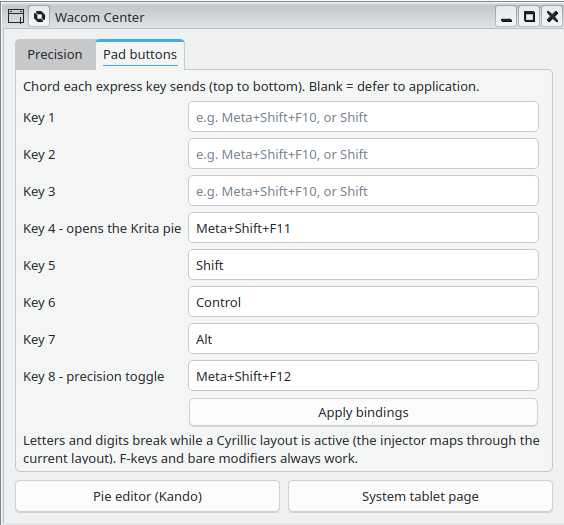
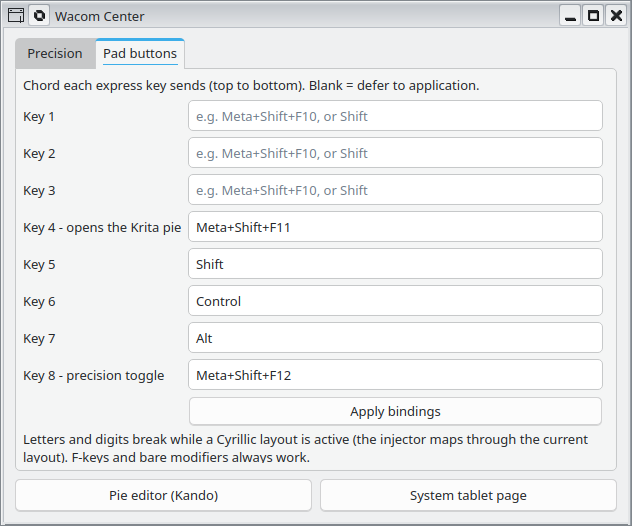
Ring: settings, no staircase after a swipe; tuned defaults; fresh Wacom Center pictures
A burst of ring ticks no longer trails behind the finger: the toggle
script reads the conf after taking its lock, so a queued tick applies the
newest size, and a resize whose width is already on screen does nothing,
so the rest of the queue drains in milliseconds. The pen's KWin sysname is
cached in the runtime dir and confirmed with one D-Bus call instead of a
walk over every device on each run.

The ring's step is the conf key RING_STEP (percentage points of screen
width per tick) and the tick angle is the ring binding's threshold, which
KWin compares with the degrees travelled times 120 (the ring reports
5-degree steps, so anything up to 600 fires on every step). Wacom Center
shows both as fields and rewrites the binding at once, plus a checkbox that
swaps the two chords. KNOWLEDGE.md corrects the old note that called 360
"15 degrees"; install.sh binds 600.

Defaults are now the values that felt right after a day of use: area 36 %
of the screen width, dim 10 %, hold 0.15 s, long press 0.7 s, half a point
per ring tick. The explanatory paragraph at the bottom of the Precision
tab is gone (tooltips carry what mattered); `wacom_center.py pad` opens on
the Pad buttons tab. The README gets a table of what the precision key
does in each state, the drag and the long press in the feature list, and
new screenshots of both Wacom Center tabs; install.sh's manual step D says
the same in one sentence.

Changed region(s): [[0.0, 0.0, 1.0, 1.0]]

diff --git a/wacom_center.py b/wacom_center.py
@@ -63,7 +63,7 @@ def detect_devices():
 
 # ── chunk: read_conf
 def read_conf():
-    values = {"SCALE": 0.7071, "DIM": 0.35, "HOLD": 0.6, "LONG": 1.0, "RING_STEP": 2.0}
+    values = {"SCALE": 0.36, "DIM": 0.10, "HOLD": 0.15, "LONG": 0.7, "RING_STEP": 0.5}
     try:
         for line in CONF.read_text().splitlines():
             key, _, val = line.partition("=")
@@ -181,6 +181,7 @@ class PrecisionTab(QWidget):
         self.ring_degrees.setSuffix("° of ring travel")
         self.ring_degrees.setKeyboardTracking(False)
         self.ring_degrees.setValue(max(1, round(degrees)))
+        self.ring_degrees.setToolTip("The ring reports 5° steps, so 5 is the finest tick; 1 to 5 behave the same.")
         self.ring_swap = QCheckBox("Swap the ring direction")
         ring_row = QHBoxLayout()
         ring_row.addWidget(QLabel("Ring: each tick changes the size by"))
@@ -193,14 +194,9 @@ class PrecisionTab(QWidget):
         tick_row.addStretch()
         toggle = QPushButton("Toggle precision now")
         toggle.clicked.connect(lambda: subprocess.Popen([str(TOGGLE)]))
-        hint = QLabel("Wacom-style placement: the cursor stays put on toggle, "
-                      "the area keeps the tablet's own proportions (no stretch "
-                      "inside it) and never leaves the screen. Size and dim apply "
-                      "on the next toggle or ring tick, the two times within two "
-                      "seconds, the ring step at the next tick; the tick angle and "
-                      "the direction go into the ring binding at once. The ring "
-                      "reports 5° steps, so 5 is the finest tick.")
-        hint.setWordWrap(True)
+        toggle.setToolTip("The pad button bound to Meta+Shift+F12 does the same. Size and dim apply "
+                          "on the next toggle or ring tick, the times within two seconds, the ring "
+                          "step at the next tick.")
 
         for w in (self.size_label, self.size, self.dim_label, self.dim):
             layout.addWidget(w)
@@ -208,8 +204,7 @@ class PrecisionTab(QWidget):
         layout.addLayout(long_row)
         layout.addLayout(ring_row)
         layout.addLayout(tick_row)
-        for w in (toggle, hint):
-            layout.addWidget(w)
+        layout.addWidget(toggle)
         layout.addStretch()
         for slider in (self.size, self.dim):
             slider.valueChanged.connect(self.update_labels)
@@ -313,6 +308,8 @@ def main():
     tabs = QTabWidget()
     tabs.addTab(PrecisionTab(aspect, pad), "Precision")
     tabs.addTab(PadTab(pad), "Pad buttons")
+    if "pad" in sys.argv[1:]:                  # `wacom_center.py pad` opens on the Pad buttons tab (the README pictures)
+        tabs.setCurrentIndex(1)
     links = QHBoxLayout()
     for label, cmd in (("Pie editor (Kando)", ["kando", "--settings"]),
                        ("System tablet page", ["systemsettings", "kcm_tablet"])):

diff --git a/tablet-hover.py b/tablet-hover.py
@@ -12,8 +12,7 @@
 # activated).
 #
 # With precision mode already ON the same key RELOCATES it. Rest the finger
-# for HOLD seconds (conf key, default 0.6, the Wacom Center field - long
-# enough that a normal press still switches the mode off) and the REAL
+# for HOLD seconds (conf key, default 0.15, the Wacom Center field) and the REAL
 # overlay, the precision UI itself and not the ghost, starts following the
 # pen with the same placement math and the ghost's flowing border (the
 # pipe lines "waiting" / "solid") while the pen gets the base mapping back
@@ -28,7 +27,7 @@
 #
 # HOLD has no floor. At 0 every touch starts a drag at once and every press
 # is a move, so the way OUT is the LONG PRESS: keep the key pressed for LONG
-# seconds after a press that confirmed a drag (conf key, default 1.0, the
+# seconds after a press that confirmed a drag (conf key, default 0.7, the
 # second Wacom Center field; 0 switches the long press off) and precision
 # mode goes off. The area lands at the press first - KWin fires the toggle
 # on the key-down and nothing can hold that back - and the daemon runs the
@@ -79,8 +78,8 @@ FIFO = RD / "overlay.fifo"          # the live overlay's geometry pipe (tablet-o
 MARK = RD / "relocate"              # kept fresh while the overlay follows the pen: the toggle moves (< 3 s old) instead of switching off
 DIR = Path(__file__).resolve().parent
 SHOW_DELAY = 0.06                    # touch sense must hold this long before the ghost (debounce)
-HOLD_DEFAULT = 0.6                   # ...and this long before a relocation (precision on); conf key HOLD, Wacom Center field
-LONG_DEFAULT = 1.0                   # a press that confirmed a drag, kept down this long, switches precision mode off; conf key LONG, 0 = off
+HOLD_DEFAULT = 0.15                  # ...and this long before a relocation (precision on); conf key HOLD, Wacom Center field
+LONG_DEFAULT = 0.7                   # a press that confirmed a drag, kept down this long, switches precision mode off; conf key LONG, 0 = off
 RESCAN = 2.0                        # seconds between checks for new/lost nodes and conf edits
 TICK = 0.03                          # poll period while a rectangle follows the pen or a press is being judged
 LEARN_WINDOW = 2.0                   # a precision toggle this soon after a one-key press names the key

diff --git a/tests/test_hover.py b/tests/test_hover.py
@@ -23,7 +23,7 @@ for d in (RD / "tabprec", CONFD, FAKE):
 os.environ["XDG_RUNTIME_DIR"] = str(RD)
 os.environ["XDG_CONFIG_HOME"] = str(CONFD)
 CONF = CONFD / "tabprec.conf"
-CONF.write_text("SCALE=0.29\nDIM=0.10\nHOVER_MASK=0x80\n")
+CONF.write_text("SCALE=0.29\nDIM=0.10\nHOVER_MASK=0x80\nHOLD=0.6\nLONG=1.0\n")   # the rig's timings assume these, not the defaults
 
 spec = importlib.util.spec_from_file_location("hover", SRC)
 hover = importlib.util.module_from_spec(spec)
@@ -206,12 +206,12 @@ check("G conf edited mid-rest: the drag still starts", MARK.exists() and len(lin
 report(touch=0)
 time.sleep(0.25)
 check("G lift snaps home", lines[-2:] == [HOME, "solid"] and not MARK.exists())
-CONF.write_text("SCALE=0.29\nDIM=0.10\nHOVER_MASK=0x80\nHOLD=0.6\n")
+CONF.write_text("SCALE=0.29\nDIM=0.10\nHOVER_MASK=0x80\nHOLD=0.6\nLONG=1.0\n")
 time.sleep(2.6)
 
 # --- H: no floor on HOLD, and the LONG PRESS out of precision mode ---
 calls = lambda: ghost().count("CALL toggle")
-CONF.write_text("SCALE=0.29\nDIM=0.10\nHOVER_MASK=0x80\nHOLD=0\n")
+CONF.write_text("SCALE=0.29\nDIM=0.10\nHOVER_MASK=0x80\nHOLD=0\nLONG=1.0\n")
 time.sleep(2.6)
 n = len(lines)
 report(touch=0x80)
@@ -219,7 +219,7 @@ time.sleep(0.1)
 check("H HOLD=0: the drag starts at the first touch report", MARK.exists() and len(lines) == n + 2)
 report(touch=0)
 time.sleep(0.25)
-CONF.write_text("SCALE=0.29\nDIM=0.10\nHOVER_MASK=0x80\nHOLD=0.6\n")     # LONG absent: the 1.0 s default
+CONF.write_text("SCALE=0.29\nDIM=0.10\nHOVER_MASK=0x80\nHOLD=0.6\nLONG=1.0\n")
 time.sleep(2.6)
 report(touch=0x80)
 time.sleep(0.9)
@@ -261,7 +261,7 @@ check("H LONG=0: a press held 1.4 s after a drag does not exit", calls() == 1)
 report(touch=0)
 time.sleep(0.25)
 MARK.unlink(missing_ok=True)
-CONF.write_text("SCALE=0.29\nDIM=0.10\nHOVER_MASK=0x80\nHOLD=0.6\n")
+CONF.write_text("SCALE=0.29\nDIM=0.10\nHOVER_MASK=0x80\nHOLD=0.6\nLONG=1.0\n")
 time.sleep(2.6)
 
 # --- F: no live overlay reading the pipe -> the hold does nothing ---

diff --git a/tablet-size-preview.py b/tablet-size-preview.py
@@ -54,7 +54,7 @@ def tablet_aspect():
 # ── chunk: read_conf
 def read_conf():
     """(SCALE, DIM) from the conf, clamped the way the toggle clamps them."""
-    scale, dim = 0.7071, 0.35
+    scale, dim = 0.36, 0.10
     try:
         for line in CONF.read_text().splitlines():
             key, _, val = line.partition("=")

diff --git a/PROJECT_MAP.md b/PROJECT_MAP.md
@@ -41,11 +41,11 @@ Runtime files live in `$XDG_RUNTIME_DIR/tabprec/` (`$RD` below). The conf is
 | `$RD/lock` | every run of the toggle script (`flock`) | — | one run at a time; the spawned overlay closes the descriptor (`9>&-`) |
 | `$RD/pen` | the toggle, after a walk over KWin's device list | the toggle (every run that needs the pen) | the pen's KWin sysname; one `name` call confirms it, a stale one triggers a new walk |
 | `$RD/preview.pid`, `overlay.log`, `preview.log`, `probe.js` | the ring script / the toggle | the ring script / nobody | housekeeping |
-| conf `SCALE` | Wacom Center, the ring script | the toggle (every run), the size preview | 0.05–0.80 of the screen width |
-| conf `DIM` | Wacom Center | the toggle, the size preview | 0–0.8 |
-| conf `HOLD` | Wacom Center | the daemon (re-read within 2 s) | seconds a resting finger waits before a drag; no floor (0 = at once), default 0.6 |
-| conf `LONG` | Wacom Center | the daemon (re-read within 2 s) | seconds a press that confirmed a drag stays down to leave the mode; 0 = never, default 1.0 |
-| conf `RING_STEP` | Wacom Center | the ring script | percentage points of screen width per ring tick; default 2 |
+| conf `SCALE` | Wacom Center, the ring script | the toggle (every run), the size preview | 0.05–0.80 of the screen width; default 0.36 |
+| conf `DIM` | Wacom Center | the toggle, the size preview | 0–0.8; default 0.10 |
+| conf `HOLD` | Wacom Center | the daemon (re-read within 2 s) | seconds a resting finger waits before a drag; no floor (0 = at once), default 0.15 |
+| conf `LONG` | Wacom Center | the daemon (re-read within 2 s) | seconds a press that confirmed a drag stays down to leave the mode; 0 = never, default 0.7 |
+| conf `RING_STEP` | Wacom Center | the ring script | percentage points of screen width per ring tick; default 0.5 |
 | `kcminputrc` `[ButtonRebinds][TabletRing][<pad>][0]` `0=AxisKey,<up>,<down>,<threshold>` | Wacom Center (tick angle, direction), install.sh (600) | KWin | threshold = degrees per tick × 120; the ring reports 5° steps, so ≤ 600 = every step (72 ticks a turn) |
 | conf `HOVER_MASK` | the daemon (learned) | the daemon | the precision key's bit |
 | conf `HOVER_REPORT`, `HOVER_BYTE`, `PRESS_BYTE`, `PRESS_MASK` (+ `_USB` / `_BT`) | you, for an unknown model (from the probe) | the daemon | report layout overrides |
@@ -154,7 +154,7 @@ press followed by a toggle. Report layouts per product id, conf keys override.
 
 ### `tablet-precision-size.sh` — one ring tick: SCALE ± RING_STEP points
 - **chunk: `drag-guard`** — a relocate marker under 3 s old (the area is being dragged): exit, nothing changes.
-- **chunk: `step`** — SCALE ± RING_STEP/100 (conf, default 2 points; junk = 2), clamped to 0.05–0.80.
+- **chunk: `step`** — SCALE ± RING_STEP/100 (conf, default 0.5 points; junk = 0.5), clamped to 0.05–0.80.
 - **chunk: `conf-write`** — rewrites SCALE and DIM in place, keeping every other line.
 - **chunk: `resize-or-preview`** — mode on: `tablet-precision.sh resize` (the area itself, around its centre); off: the size preview unless one is running.
 
@@ -202,7 +202,7 @@ it lands on the same physical spot on a scaled display.
 - **chunk: `set_launcher_shortcut`** — keeps the shortcut daemon in step with the two launcher keys. *(personal copy only)*
 - **chunk: `PrecisionTab`** — the size and dim sliders, the hold and long-press fields (seconds, from 0), the ring step, tick angle and direction swap, the toggle button; saves on change.
 - **chunk: `PadTab`** — one chord field per key, validation, the layout warning, apply.
-- **chunk: `main`** — the window, the tabs, the two launcher buttons.
+- **chunk: `main`** — the window, the tabs (`pad` on the command line opens the second), the two launcher buttons.
 
 ### `tests/` — the gates
 `run_all.sh` runs everything (~60 s; no Qt, no tablet, no KWin): `py_compile`,

diff --git a/README.md b/README.md
@@ -30,9 +30,9 @@ devices are found by capability, not by model name.
   rectangle waiting to be activated.
 - **Ring size control.** The tablet's touch ring resizes the area between
   5 and 80% of the screen width. Each tick adds or removes a number of
-  percentage points (2 by default) and a tick fires every so many degrees
-  of ring travel (5 by default, the ring's own step); both are Wacom Center
-  settings, with a switch for the direction. With precision mode off, a
+  percentage points (half a point by default) and a tick fires every so
+  many degrees of ring travel (5 by default, the ring's own step); both are
+  Wacom Center settings, with a switch for the direction. With precision mode off, a
   centred fading preview shows the prospective size; with it on, the area
   itself grows or shrinks around its centre and stays where it is. Ticks
   while the area is being dragged are ignored.
@@ -73,8 +73,8 @@ and nothing else shows.
 
 <p align="center"><img src="docs/screenshot-wacom-center-precision.png" width="400" alt="Wacom Center, Precision tab"> <img src="docs/screenshot-wacom-center-pad.png" width="400" alt="Wacom Center, Pad buttons tab"></p>
 
-Wacom Center: the size and dim sliders, and the chord editor for the
-express keys.
+Wacom Center: the size and dim sliders, the hold and long-press times, the
+ring step and tick angle; and the chord editor for the express keys.
 
 The ring preview picture is a drawing; `docs/make-images.py` renders it
 with the same geometry the scripts use. The other pictures are screenshots.
@@ -177,7 +177,7 @@ touch bits, byte 282 = press bits.
 
 With precision mode already on, the same key relocates the area. Rest a
 finger on it (the hold time field in Wacom Center, `HOLD` in
-`~/.config/tabprec.conf`, default 0.6 s, picked up without a restart): the
+`~/.config/tabprec.conf`, default 0.15 s, picked up without a restart): the
 pen gets the whole screen back for the moment, the cursor roams, and the
 real overlay travels around it with the same placement rule, wearing the
 flowing border until the press. Press the key to map the area there,
@@ -188,7 +188,7 @@ still switches the mode off; ring ticks during the drag are ignored.
 The hold time has no floor. At 0 s a touch starts the drag at once and
 every press of the key is a move, so the way out of the mode is the long
 press: keep the key pressed for the long-press time (the second field,
-`LONG`, default 1 s, 0 disables it) after such a move and precision mode
+`LONG`, default 0.7 s, 0 disables it) after such a move and precision mode
 switches off. The area lands at the press first, because the compositor
 fires the toggle on the key-down; the mode leaves when the time is up.
 
